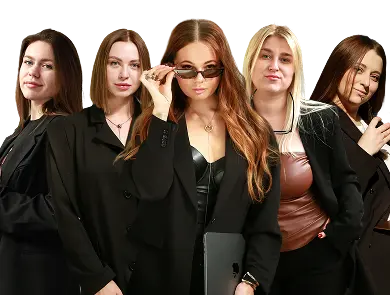
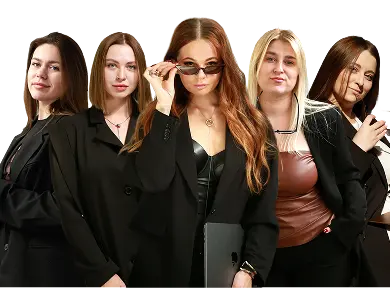
Update mission section images and add gradient overlay
Replaced and updated several images in the mission section, removed mission-bg2.jpg, and added a radial gradient overlay to SectionCont in MissionSection.styled.ts for enhanced visual effect.

diff --git a/src/components/HomePage/MissionSection/MissionSection.styled.ts b/src/components/HomePage/MissionSection/MissionSection.styled.ts
@@ -20,6 +20,33 @@ export const SectionCont = styled.div`
   position: relative;
   overflow: hidden;
   margin: 0 auto;
+
+  &::after {
+    content: "";
+    position: absolute;
+    inset: 0;
+    z-index: 1;
+    pointer-events: none;
+
+    background: 
+    radial-gradient(
+        70% 65% at 95% 8%,
+        rgba(132, 82, 255, 0.72) 0%,
+        rgba(132, 82, 255, 0.45) 40%,
+        rgba(132, 82, 255, 0.2) 60%,
+        rgba(132, 82, 255, 0) 78%
+      ),
+        radial-gradient(
+          70% 65% at 95% 92%,
+          rgba(132, 82, 255, 0.72) 0%,
+          rgba(132, 82, 255, 0.45) 40%,
+          rgba(132, 82, 255, 0.2) 60%,
+          rgba(132, 82, 255, 0) 78%
+        );
+    mix-blend-mode: screen;
+  }
+
+  
 `;
 
 export const SubTitle = styled.h3`
